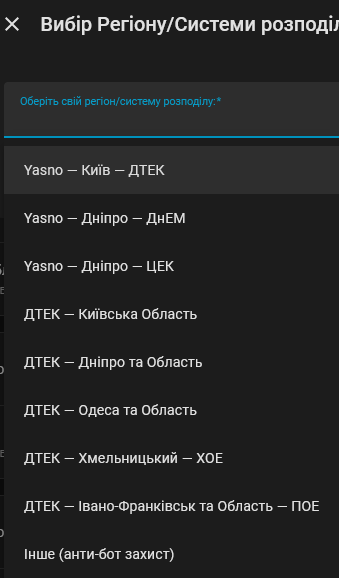
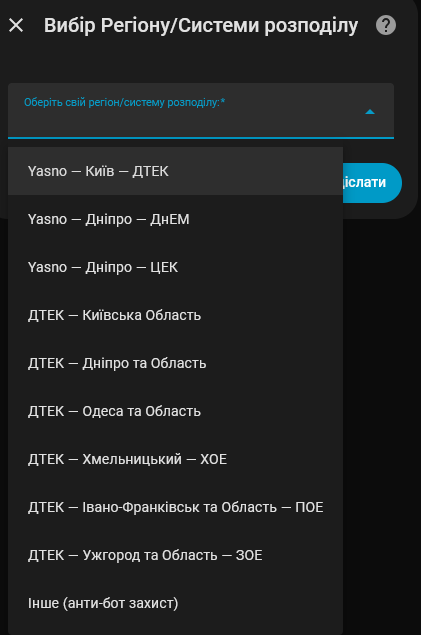
add uzhhorod

diff --git a/custom_components/svitlo_yeah/models.py b/custom_components/svitlo_yeah/models.py
@@ -127,6 +127,7 @@ class DTEKJsonProvider(BaseProvider, StrEnum):
     ODESA = "odesa"
     KHMELNYTSKYI = "khmelnytskyi"
     IVANO_FRANKIVSK = "ivano_frankivsk"
+    UZHHOROD = "uzhhorod"
 
     @property
     def unique_key(self) -> str:
@@ -166,5 +167,8 @@ DTEK_PROVIDER_URLS: dict[DTEKJsonProvider, list[str]] = {
     ],
     DTEKJsonProvider.IVANO_FRANKIVSK: [
         "https://github.com/yaroslav2901/PRYKARPATTIAOBLENERHO_OUTAGE_DATA/raw/main/data/Ivano-Frankivsk.json",
+    ],
+    DTEKJsonProvider.UZHHOROD: [
+        "https://github.com/yaroslav2901/ZAKARPATTIAOBLENERHO_OUTAGE_DATA/raw/main/data/Zakarpattiaoblenerho.json",
     ],
 }

diff --git a/README.md b/README.md
@@ -24,6 +24,7 @@ A [Home Assistant][home-assistant] integration that tracks electricity outage sc
 | **Odesa and Oblast**           | DTEK     | [Baskerville42/outage-data-ua](https://github.com/Baskerville42/outage-data-ua/blob/main/data/odesa.json)                                               |
 | **Khmelnytskyi**               | HOE      | [yaroslav2901/HOE_OUTAGE_DATA](https://github.com/yaroslav2901/HOE_OUTAGE_DATA/blob/main/data/Khmelnytskyi.json)                                        |
 | **Ivano-Frankivsk and Oblast** | POE      | [yaroslav2901/PRYKARPATTIAOBLENERHO_OUTAGE_DATA](https://github.com/yaroslav2901/PRYKARPATTIAOBLENERHO_OUTAGE_DATA/blob/main/data/Ivano-Frankivsk.json) |
+| **Uzhhorod and Oblast**        | ZOE      | [yaroslav2901/ZAKARPATTIAOBLENERHO_OUTAGE_DATA](https://github.com/yaroslav2901/ZAKARPATTIAOBLENERHO_OUTAGE_DATA/blob/main/data/Zakarpattiaoblenerho.json) |
 | **Other**                      | DTEK     | [DTEK](https://www.dtek-krem.com.ua/ua/shutdowns). Uses anti-crawling protection.                                                                       |
 
 
